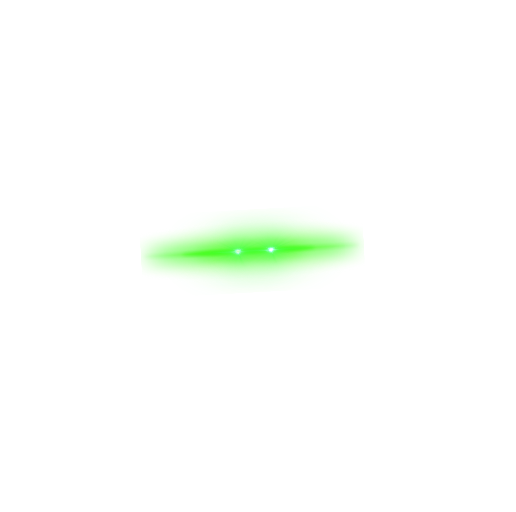
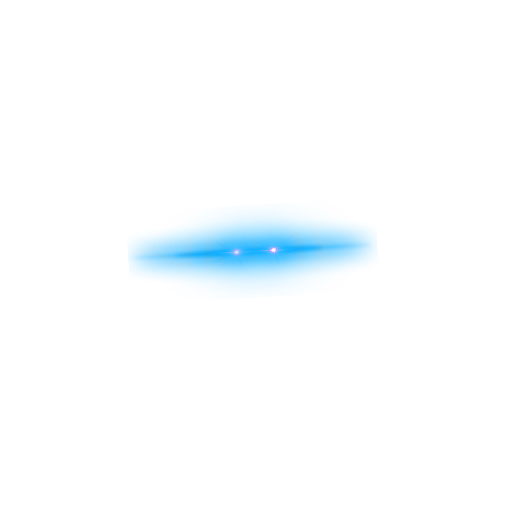
De METANOIA para PAIDEIA

Changed region(s): [[0.2481, 0.4062, 0.7442, 0.5625]]

diff --git a/css/style.css b/css/style.css
@@ -4,19 +4,19 @@ body
 	color: #fff;
 
 	border-style: inset;
-	border-color: lime;
+	border-color: #0d5eaf;
 	max-width:55em;
 	margin: 1em auto;
 	padding:1em;
 	font:16px monospace;
 }
 
-a{color:#00ff00;text-decoration:none;}
-a:hover{color:#008000;text-decoration:underline;}
+a{color:#0d5eaf;text-decoration:none;}
+a:hover{color:#06305b;text-decoration:underline;}
 p{text-indent:24px;}
 ul{list-style:'> ';}
 q{font-style: italic;}
-button{background-color:#000;color:#fff;border-color:#00ff00;cursor:pointer;}
+button{background-color:#000;color:#fff;border-color:#0d5eaf;cursor:pointer;}
 
 
 .marquee {
